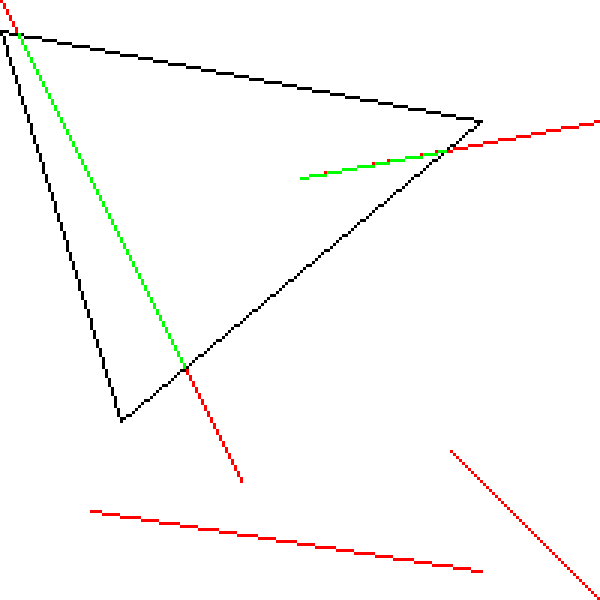
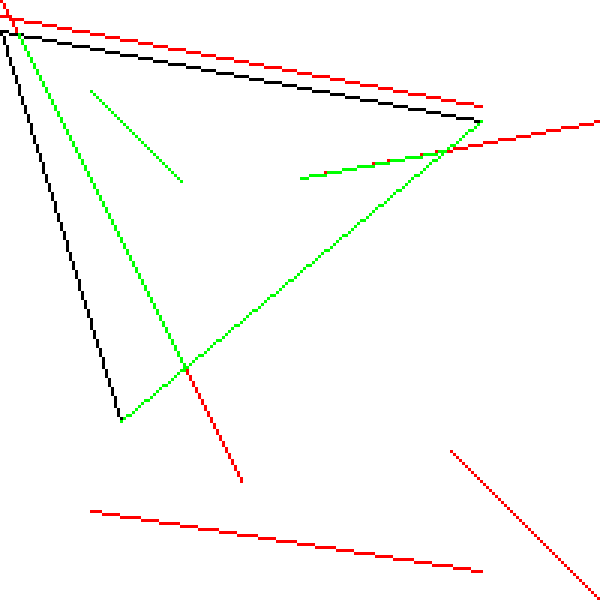
made pointSegmentClassify protected in Lab3, so I can use it in Clipping function. Fixed bug, where outside parallel line was takeb as line inside the polygon

diff --git a/src/Lab4.java b/src/Lab4.java
@@ -25,9 +25,6 @@ public class Lab4 extends Lab3{
         canvasCurves.drawBezierCurveCubic(curve2[0], curve2[1], curve2[2], curve2[3], Canvas.Color.BLUE);
         canvasCurves.drawBezierCurveCubic(curve3[0], curve3[1], curve3[2], curve3[3], Canvas.Color.GREEN);
 
-        // Код для отрисовки точек и соединяющих их прямых
-        // Выглядит не очень удобно (стоит разнести на разные холсты)
-
         var canvasCurve1 = new CanvasLab4(200, 200);
         var canvasCurve2 = new CanvasLab4(200, 200);
         var canvasCurve3 = new CanvasLab4(200, 200);
@@ -44,14 +41,17 @@ public class Lab4 extends Lab3{
         saveScaled(canvasCurve3.getImage(), 3, "curve3_with_lines");
 
         var canvasCutting = new CanvasLab4(200, 200);
-        // var polygon = new Polygon(0, 10, 40, 140, 160, 40);
-        var polygon = new Polygon(0, 10, 160, 40, 40, 140);
+        // var polygon = new Polygon(0, 10, 40, 140, 160, 40); // clockwise
+        var polygon = new Polygon(0, 10, 160, 40, 40, 140); // not clockwise
         canvasCutting.drawPolygon(polygon, Canvas.Color.BLACK);
         Point2D[][] lines = {
-                {new Point2D(0, 0), new Point2D(80, 160)},
-                {new Point2D(30, 170), new Point2D(160, 190)},
-                {new Point2D(100, 59), new Point2D(200, 40)},
+                {new Point2D(0, 0),     new Point2D(80, 160) },
+                {new Point2D(30, 170),  new Point2D(160, 190)},
+                {new Point2D(100, 59),  new Point2D(200, 40) },
                 {new Point2D(200, 200), new Point2D(150, 150)},
+                {new Point2D(30, 30),   new Point2D(60, 60)  },
+                {new Point2D(160, 40),  new Point2D(40, 140) },
+                {new Point2D(0, 5),     new Point2D(160, 35) },
         };
 
         for (var line : lines){
@@ -157,6 +157,11 @@ class CanvasLab4 extends Canvas{
                     if (t < t2)
                         t2 = t;
                 }
+            } else {
+                if (Polygon.pointSegmentClassify(polygon.getVertexCoords(i)[0], polygon.getVertexCoords(i)[1],
+                            polygon.getVertexCoords((i+1)%n)[0], polygon.getVertexCoords((i+1)%n)[1],
+                            p1.getX(), p1.getY()) == Polygon.CLPointType.LEFT)
+                    return;
             }
             if (t1 > t2)
                 return;

diff --git a/src/Lab3.java b/src/Lab3.java
@@ -149,7 +149,7 @@ class Polygon{
         return hasSelfIntersections;
     }
 
-    private enum CLPointType{
+    protected enum CLPointType{
         LEFT,
         RIGHT,
         BEYOND,
@@ -159,7 +159,7 @@ class Polygon{
         DESTINATION,
     }
 
-    private static CLPointType pointSegmentClassify(double x1, double y1,
+    protected static CLPointType pointSegmentClassify(double x1, double y1,
                                                     double x2, double y2,
                                                     double x, double y){
         double ax = x2 - x1;
